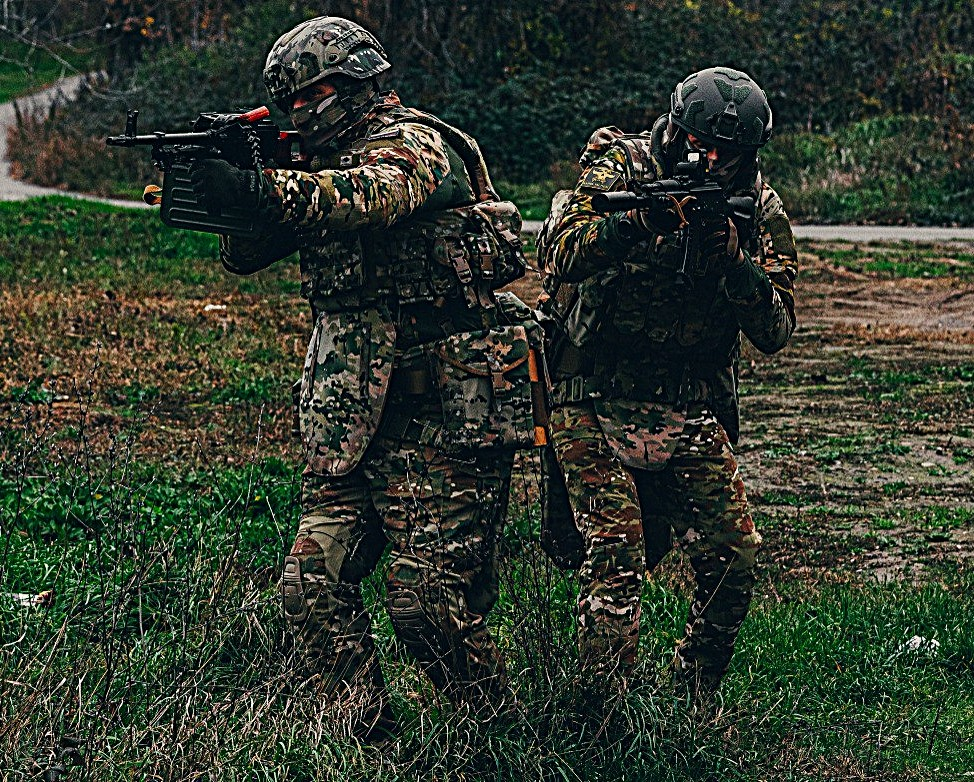
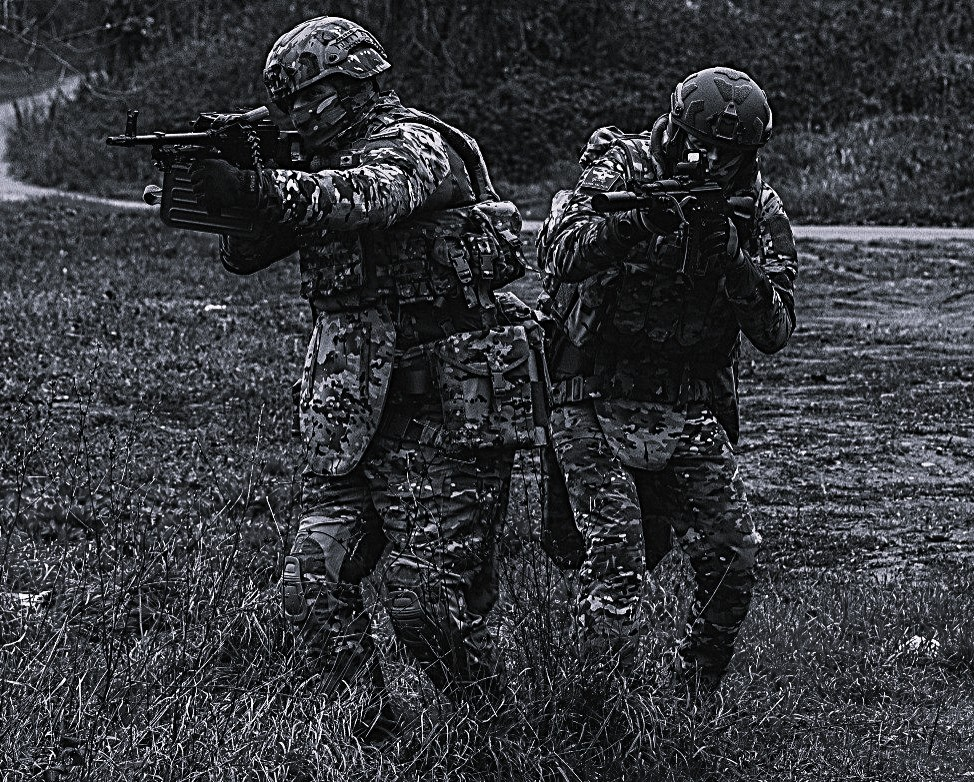
append images

diff --git a/SquadApplication/ViewCustom/MainPage.xaml b/SquadApplication/ViewCustom/MainPage.xaml
@@ -4,60 +4,28 @@
              x:Class="SquadApplication.ViewCustom.MainPage"
              xmlns:local ="clr-namespace:SquadApplication.ViewCustom" 
              Title="MainPage"
-             BackgroundImageSource="hkauthorize.jpg"             
+             BackgroundImageSource="test2.jpg"             
              >
 
-    <VerticalStackLayout>
-        <!-- Основной фон -->
-        <BoxView AbsoluteLayout.LayoutFlags="All" 
-                 AbsoluteLayout.LayoutBounds="0,0,1,1"
-                 Color="#0a0f1c"/>
-
-        <!-- Тактическая сетка (точки по углам) -->
-        <AbsoluteLayout x:Name="TacticalGrid" 
-                        AbsoluteLayout.LayoutFlags="All" 
-                        AbsoluteLayout.LayoutBounds="0,0,1,1"
-                        Opacity="0.15">
-
-            <!-- Верхний левый угол -->
-            <BoxView AbsoluteLayout.LayoutFlags="PositionProportional"
-                     AbsoluteLayout.LayoutBounds="0.1,0.1,4,4"
-                     Color="#1e90ff"
-                     CornerRadius="2"/>
-
-            <!-- Верхний правый угол -->
-            <BoxView AbsoluteLayout.LayoutFlags="PositionProportional"
-                     AbsoluteLayout.LayoutBounds="0.9,0.1,4,4"
-                     Color="#1e90ff"
-                     CornerRadius="2"/>
-
-            <!-- Нижний левый угол -->
-            <BoxView AbsoluteLayout.LayoutFlags="PositionProportional"
-                     AbsoluteLayout.LayoutBounds="0.1,0.9,4,4"
-                     Color="#1e90ff"
-                     CornerRadius="2"/>
-
-            <!-- Нижний правый угол -->
-            <BoxView AbsoluteLayout.LayoutFlags="PositionProportional"
-                     AbsoluteLayout.LayoutBounds="0.9,0.9,4,4"
-                     Color="#1e90ff"
-                     CornerRadius="2"/>
-        </AbsoluteLayout>
+    <VerticalStackLayout
+        Background="#50808080"
+        >
+       
 
         <!-- Заголовок -->
         <Border x:Name="TitleBorder"
                 AbsoluteLayout.LayoutFlags="PositionProportional,WidthProportional"
                 AbsoluteLayout.LayoutBounds="0.5,0.1,0.8,60"
                 Stroke="Transparent"
-                BackgroundColor="#1a2332"
+                BackgroundColor="#50808080"
                 StrokeThickness="1"
                 StrokeShape="10"
                 Padding="15"
                 Opacity="0.8">
             <Border.Shadow>
-                <Shadow Brush="#1e90ff" 
+                <Shadow Brush="#b3c96b" 
                         Offset="0,5" 
-                        Opacity="0.3"
+                        Opacity="0.7"
                         Radius="10"/>
             </Border.Shadow>
 
@@ -81,14 +49,14 @@
                 <!-- Карта/Статус команды -->
                 <Border x:Name="StatusCard"
                         Margin="20,0"
-                        BackgroundColor="#16213e"
-                        Stroke="#1e90ff"
+                        BackgroundColor="#50808080"
+                        Stroke="#b3c96b"
                         StrokeThickness="1"
                         StrokeShape="15"
                         Padding="20"
-                        Opacity="0.9">
+                        Opacity="0.7">
                     <Border.Shadow>
-                        <Shadow Brush="#1e90ff" 
+                        <Shadow Brush="#b3c96b" 
                                 Offset="0,0" 
                                 Opacity="0.2"
                                 Radius="15"/>
@@ -102,7 +70,7 @@
                                HorizontalTextAlignment="Center"/>
 
                         <BoxView HeightRequest="2" 
-                                 Color="#1e90ff" 
+                                 Color="#b3c96b" 
                                  Margin="0,5,0,10"
                                  Opacity="0.5"/>
 
@@ -110,6 +78,7 @@
                         <FlexLayout Direction="Row" 
                                    JustifyContent="SpaceBetween"
                                    AlignItems="Center"
+                                    
                                    Wrap="NoWrap">
 
                             <!-- Бойцы -->
